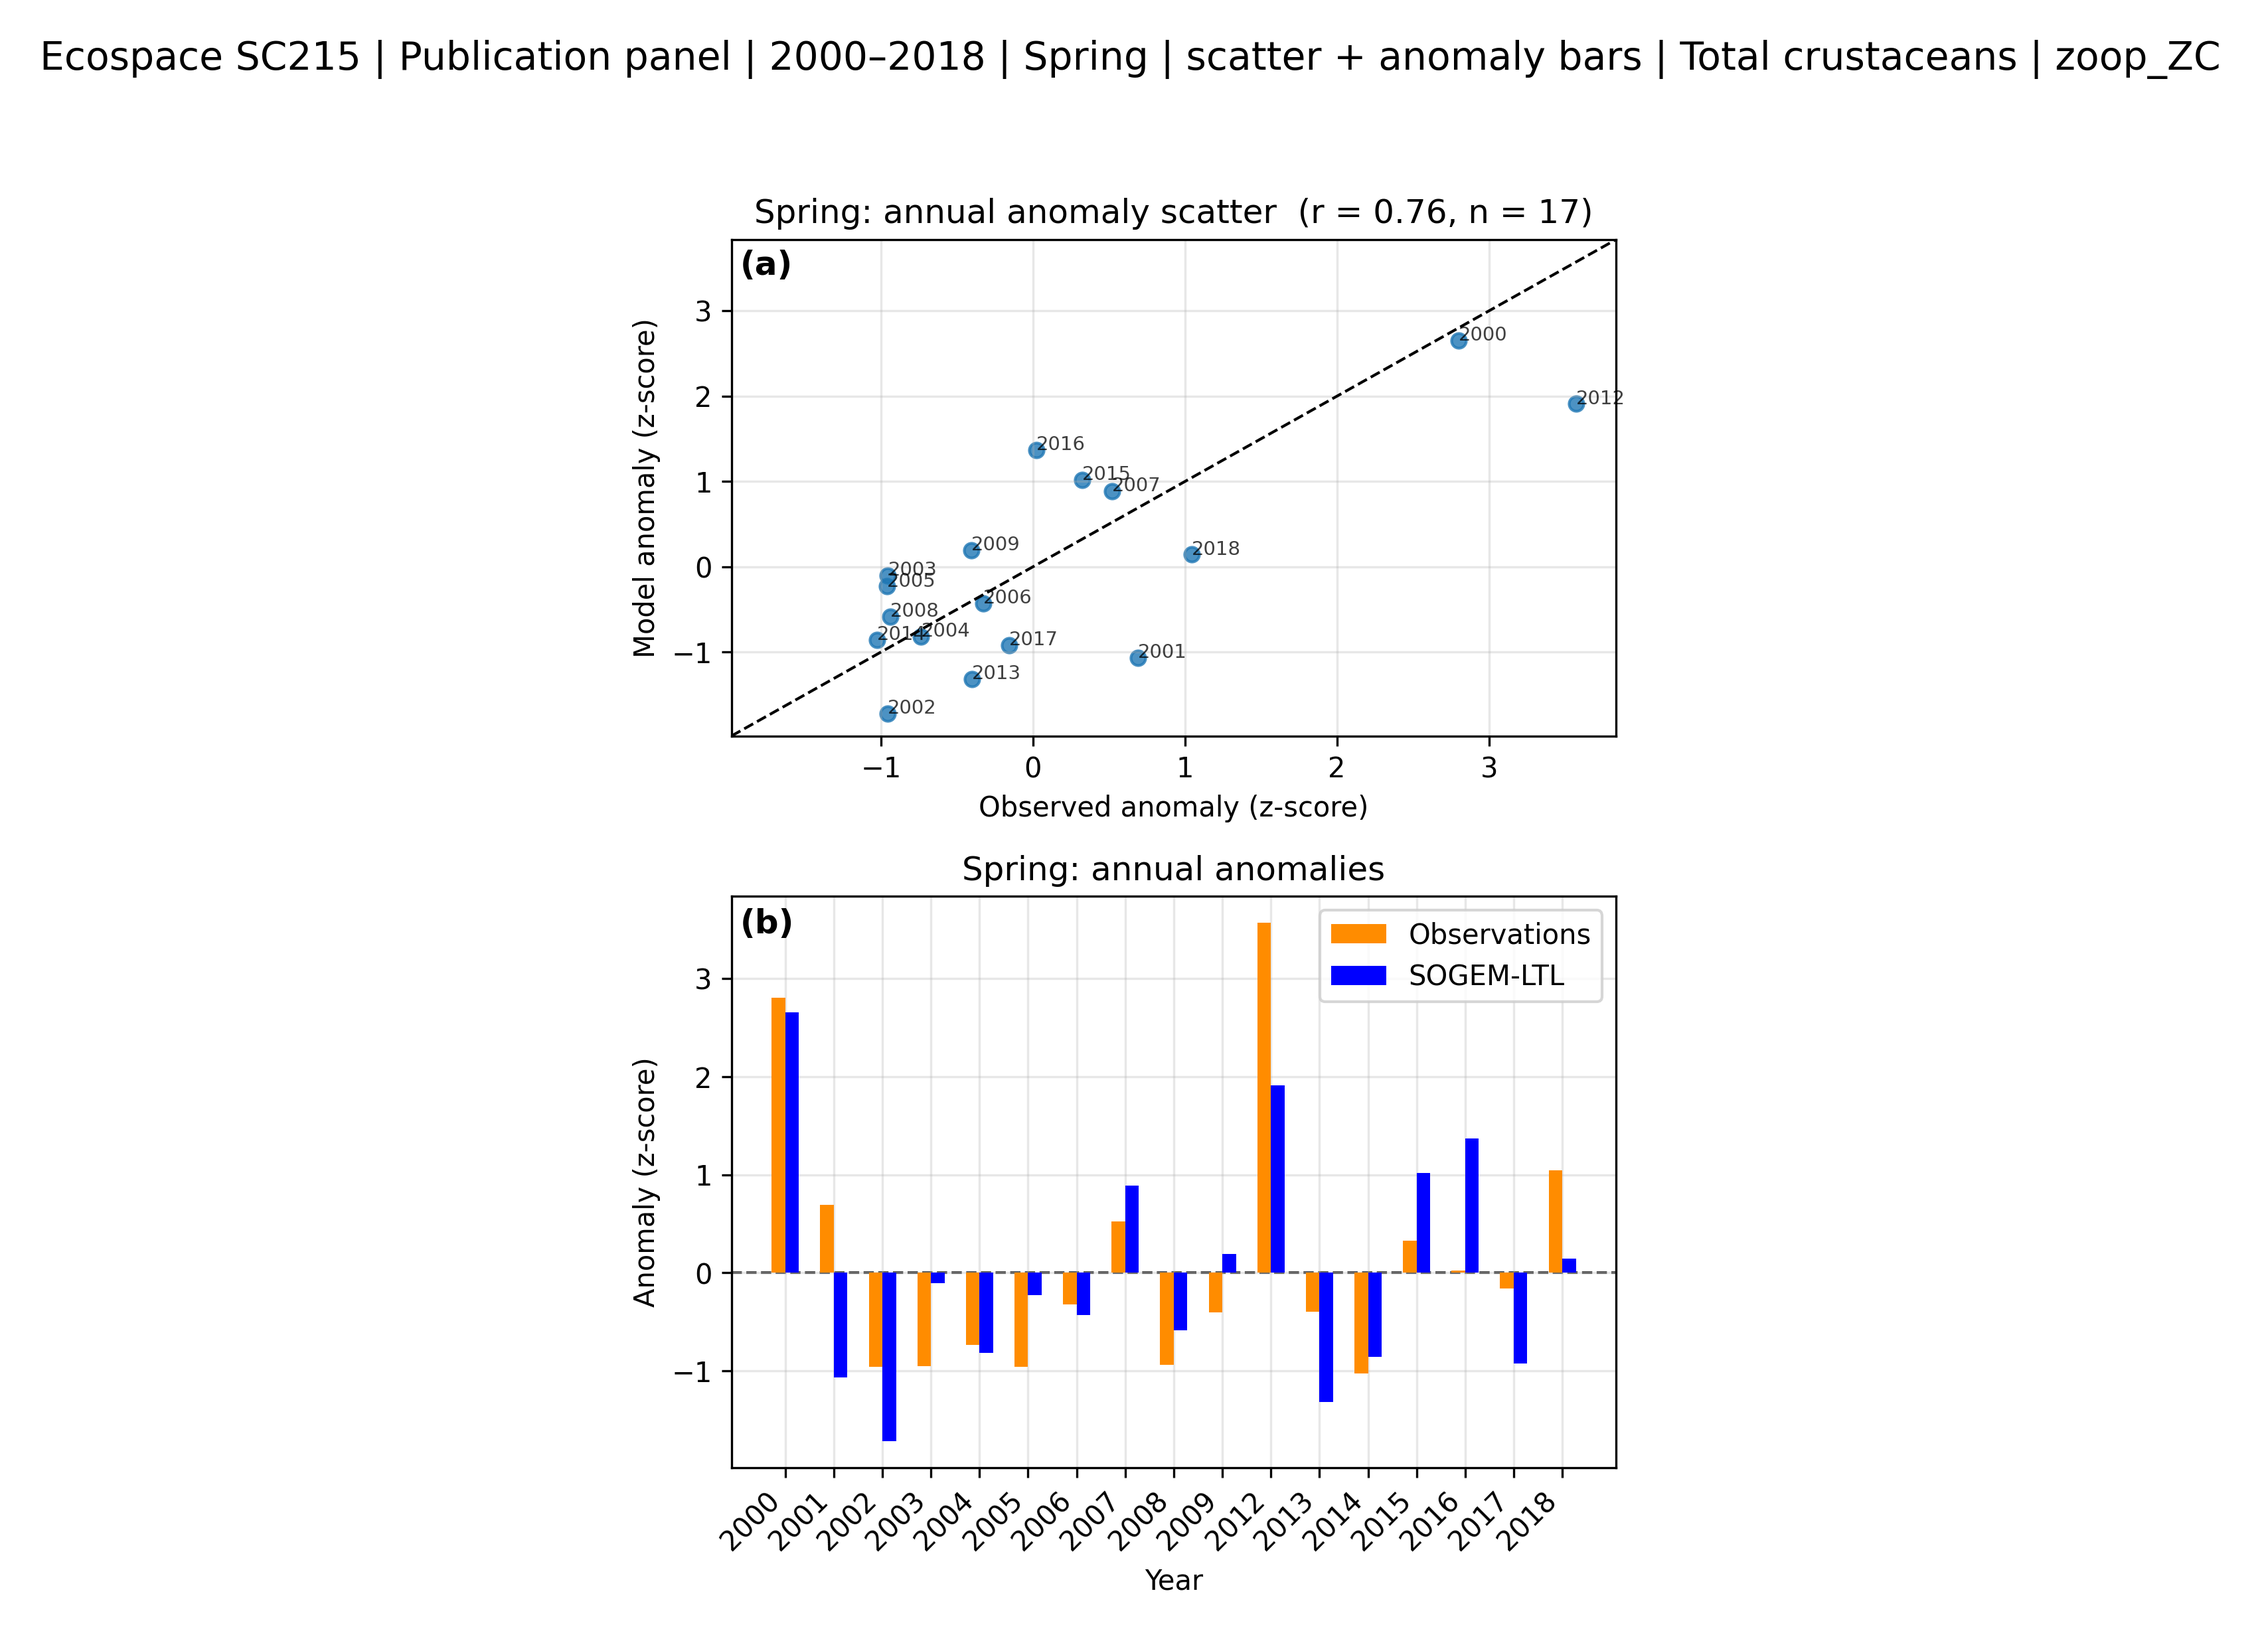
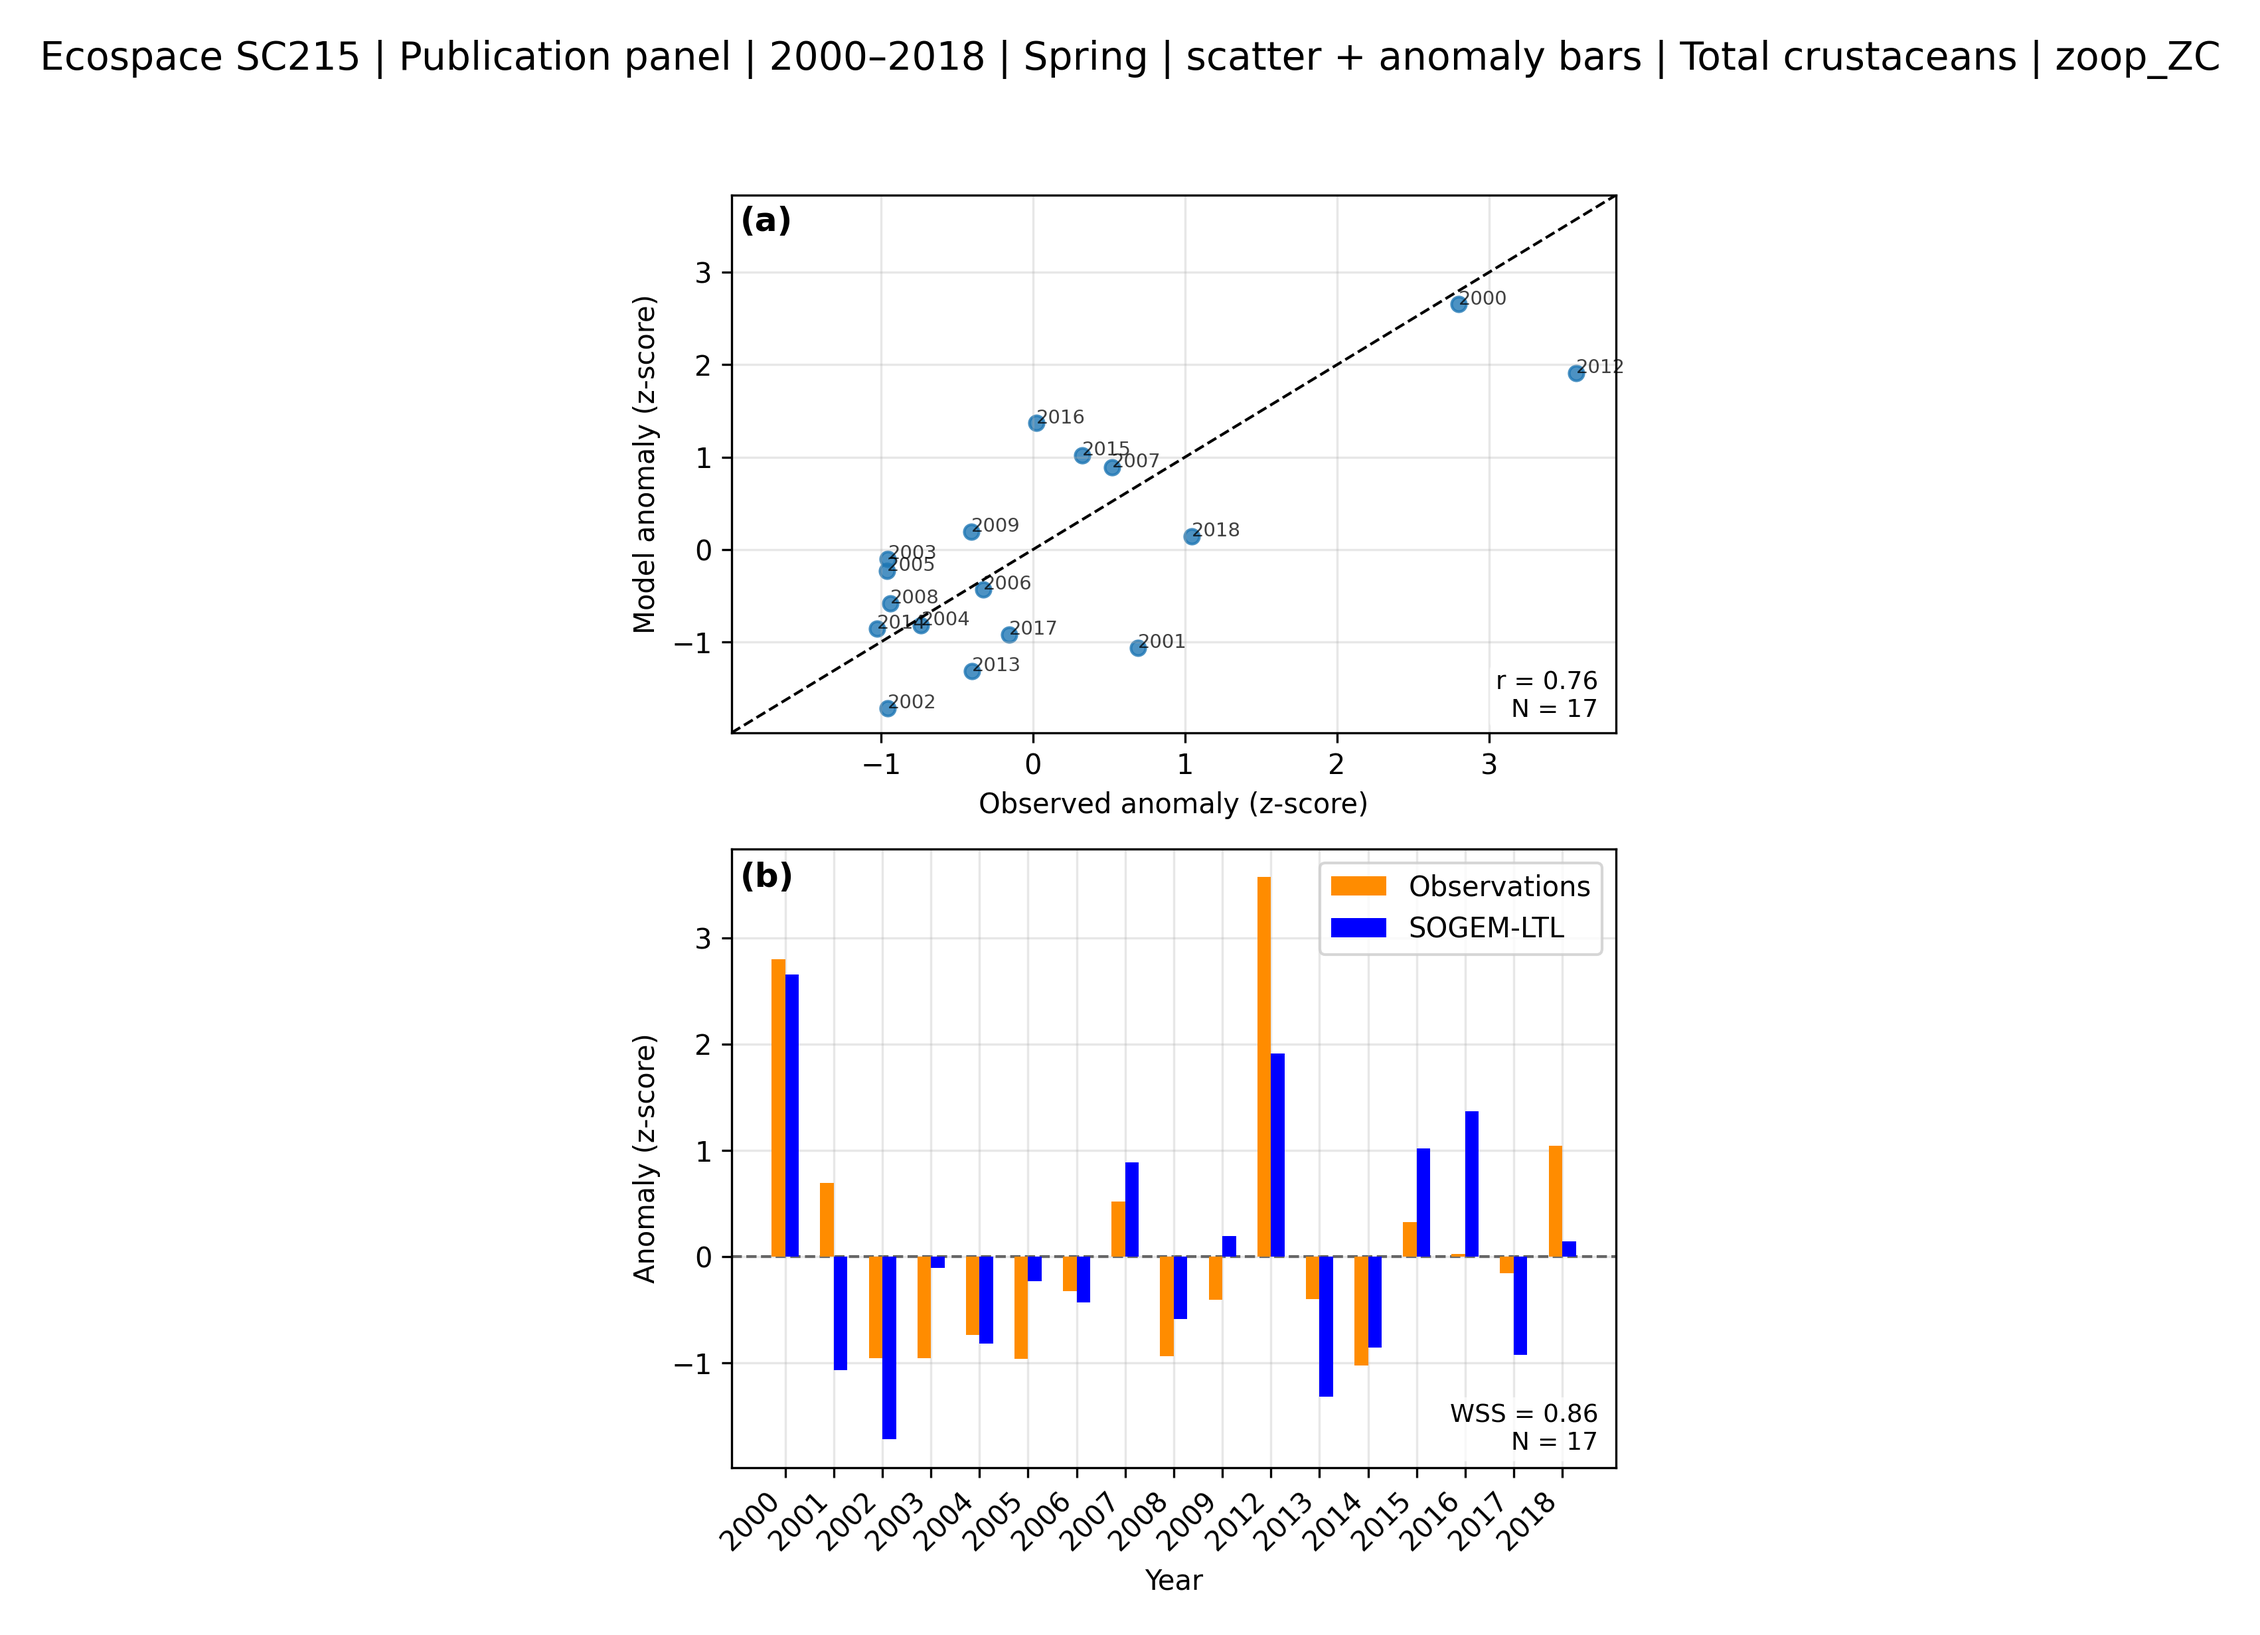
new fig

diff --git a/scripts/PublicationScripts/ecospace_eval_5_zoop_eval.py b/scripts/PublicationScripts/ecospace_eval_5_zoop_eval.py
@@ -807,12 +807,20 @@ def plot_pub_panel_total_single_season(
             ax_scatter.set_ylim(lo - pad, hi + pad)
 
             if len(d) > 1:
-                r = np.corrcoef(d["x"], d["y"])[0, 1]
-                ax_scatter.set_title(f"{season}: tow-level scatter  (r = {r:.2f}, n = {len(d)})")
-            else:
-                ax_scatter.set_title(f"{season}: tow-level scatter  (n = {len(d)})")
+                stats_a = compute_stats(
+                    d.rename(columns={"x": "obs_tmp", "y": "mod_tmp"}),
+                    "obs_tmp", "mod_tmp",
+                    log_or_anom=log10_scatter,
+                )
+                stat_text_a = f"r = {stats_a['r']:.2f}\nN = {int(stats_a['N'])}"
+            elif len(d) == 1:
+                stat_text_a = "n = 1"
         else:
-            ax_scatter.set_title(f"{season}: tow-level scatter  (n = 0)")
+            stat_text_a = "n = 0"
+
+            # do not title for publication
+            # ax_scatter.set_title(...)
+        _add_statbox(ax_scatter, stat_text_a)
 
         ax_scatter.set_xlabel(xlab)
         ax_scatter.set_ylabel(ylab)
@@ -832,12 +840,14 @@ def plot_pub_panel_total_single_season(
             ax_scatter.set_ylim(lo - pad, hi + pad)
 
             if len(d) > 1:
-                r = np.corrcoef(d["obs_anom"], d["model_anom"])[0, 1]
-                ax_scatter.set_title(f"{season}: annual anomaly scatter  (r = {r:.2f}, n = {len(d)})")
-            else:
-                ax_scatter.set_title(f"{season}: annual anomaly scatter  (n = {len(d)})")
+                stats_a = compute_stats(d, "obs_anom", "model_anom", log_or_anom=True)
+                stat_text_a = f"r = {stats_a['r']:.2f}\nN = {int(stats_a['N'])}"
+            elif len(d) == 1:
+                stat_text_a = "n = 1"
         else:
-            ax_scatter.set_title(f"{season}: annual anomaly scatter  (n = 0)")
+            stat_text_a = "n = 0"
+
+        _add_statbox(ax_scatter, stat_text_a)
 
         ax_scatter.set_xlabel("Observed anomaly (z-score)")
         ax_scatter.set_ylabel("Model anomaly (z-score)")
@@ -889,7 +899,15 @@ def plot_pub_panel_total_single_season(
         ax_bar.set_xticklabels([str(y) for y in years], rotation=45, ha="right")
         ax_bar.set_ylabel("Anomaly (z-score)")
         ax_bar.set_xlabel("Year")
-        ax_bar.set_title(f"{season}: annual anomalies")
+
+        stats_b = compute_stats(annual, "obs_anom", "model_anom", log_or_anom=True)
+        if int(stats_b["N"]) > 0 and pd.notna(stats_b["WSS"]):
+            stat_text_b = f"WSS = {stats_b['WSS']:.2f}\nN = {int(stats_b['N'])}"
+        else:
+            stat_text_b = f"n = {int(stats_b['N'])}"
+
+        _add_statbox(ax_bar, stat_text_b)
+        # ax_bar.set_title(f"{season}: annual anomalies")
 
         ax_bar.grid(True, alpha=0.3, zorder=0)
         ax_bar.legend()
@@ -961,6 +979,22 @@ def plot_pub_panel_total_single_season(
 
     print(f"[INFO] Saved publication panel: {outpath}")
     return outpath
+
+
+def _add_statbox(ax, text: str, *, x=0.98, y=0.02):
+    ax.text(
+        x, y, text,
+        transform=ax.transAxes,
+        ha="right", va="bottom",
+        fontsize=9,
+        bbox=dict(
+            boxstyle="round,pad=0.25",
+            facecolor="white",
+            edgecolor="none",
+            alpha=0.75,
+        ),
+        zorder=10,
+    )
 
 def visualize_and_stats(matched_csv: str, cfg5: Eval5Config) -> str:
     print("[5c] Visualizing & computing skill stats…")
